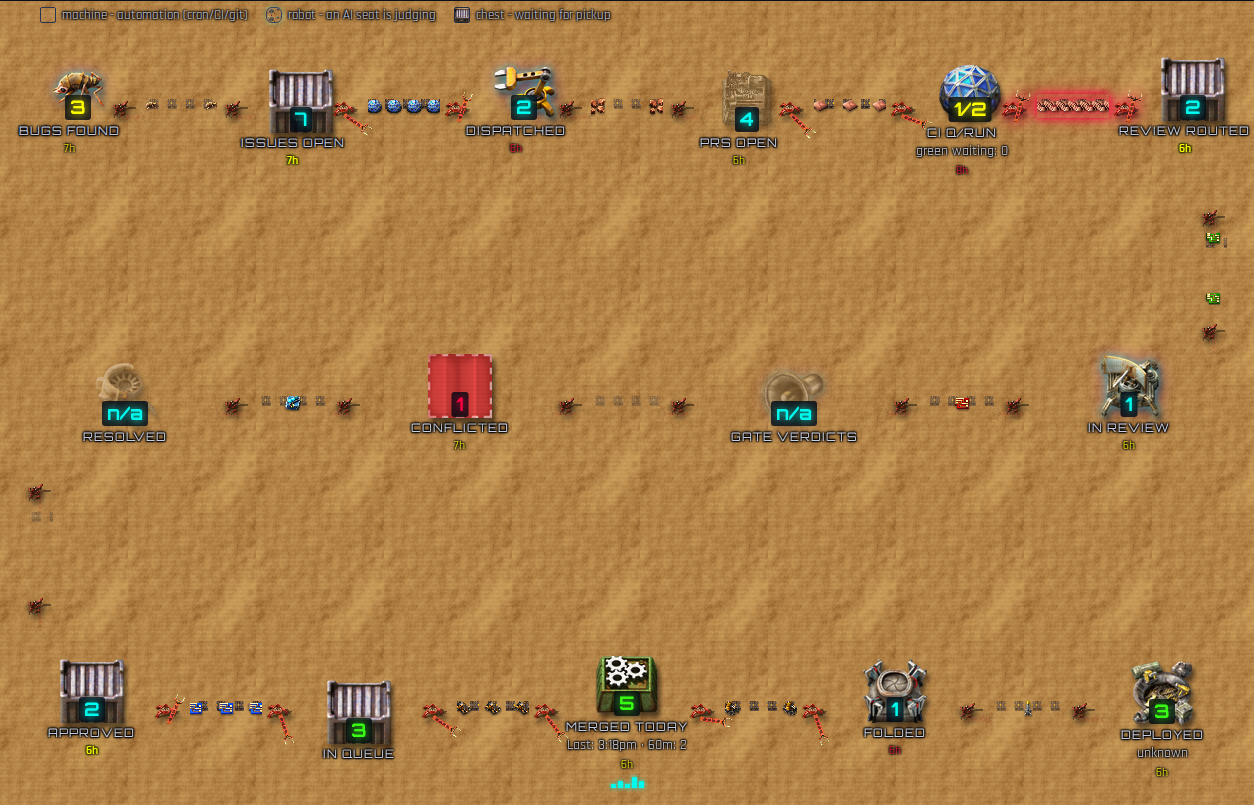
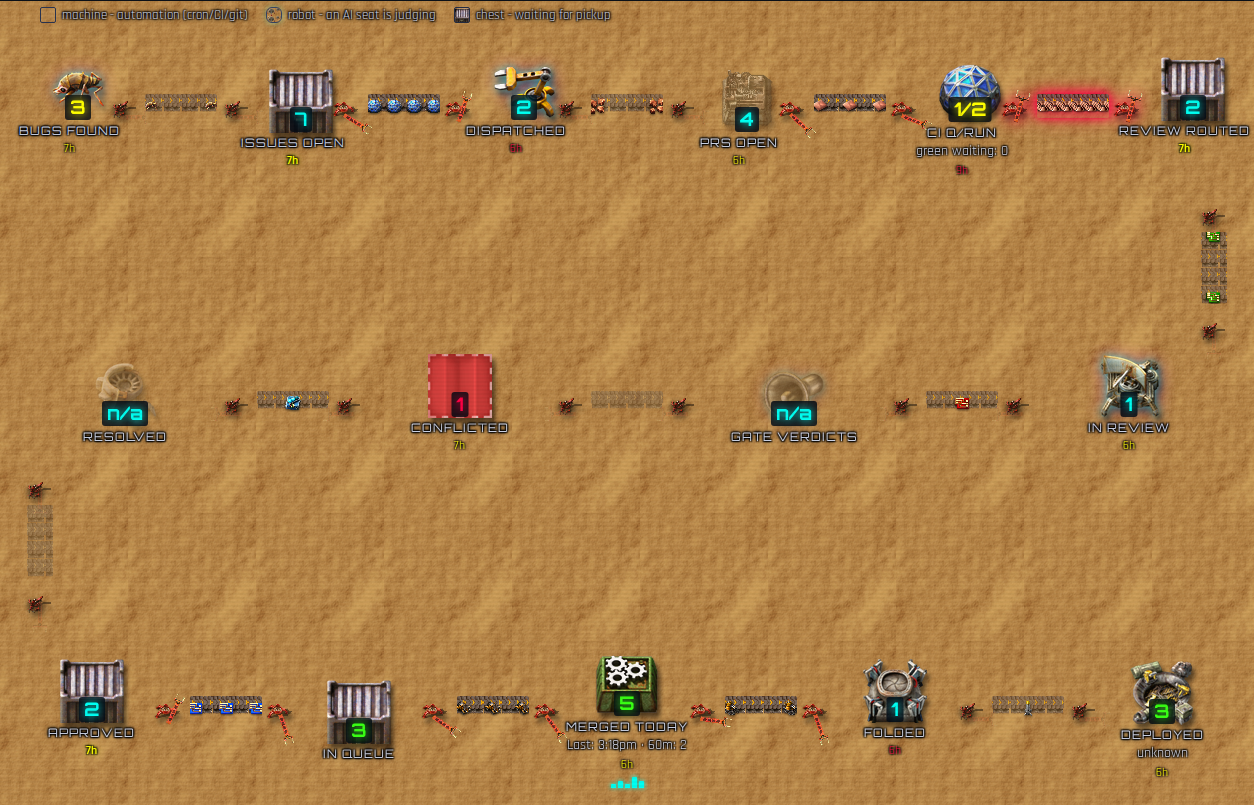
fix(monitor): retile belt texture, fix vertical belt tiling, add real reference comparison
Ben supplied three reference gameplay screenshots (pulled from Bens-Mac.local
over SSH - the local paths he pasted aren't reachable from this worktree's
own box). Comparing against them surfaced a real rendering bug beyond the
prior review's known gaps:

- static/factorio/belt/belt-tile.png was 64x64 with its actual belt-tread
  art confined to a 40x40 box in the middle - tiled at 18px, most of what
  painted was transparent, so items floated on bare sand with only faint
  arrow specks between them instead of a visible moving belt surface.
  Re-cropped from the already-staged raw transport-belt.png sheet to a
  tight 68x68 tile with almost no dead margin.
- .ship-belt-vertical .ship-belt-track inherited background-repeat:repeat-x
  from the base rule, so each vertical belt (72px tall) only ever painted
  ONE 18px band of texture and left the rest as bare sand. Set to `repeat`
  so the tread fills the full vertical run.

evidence/factorio-belts/reference-comparison.png stacks one of Ben's real
frames over the rebuilt strip; evidence/factorio-belts/README.md documents
the full comparison (belt fix, ground tone, inserter tier, density,
still-deferred items) instead of the earlier "no reference frames available"
caveat, which no longer applies.

Full test suite re-verified green after the belt-tile change.

Claude-Session: https://claude.ai/code/session_015a21LH9eqkn4oZydkWAQ3i

diff --git a/queue_router.py b/queue_router.py
@@ -7614,7 +7614,7 @@ animation:ship-belt-flow linear infinite;animation-duration:var(--belt-duration,
    belt is always downstream-is-down here, so there is no "vertical-left"
    mirror to carry). */
 .ship-belt-vertical{width:26px;height:72px;flex:0 0 72px}
-.ship-belt-vertical .ship-belt-track{background-size:18px 18px;animation-name:ship-belt-flow-vertical}
+.ship-belt-vertical .ship-belt-track{background-size:18px 18px;background-repeat:repeat;animation-name:ship-belt-flow-vertical}
 @keyframes ship-belt-flow-vertical{to{background-position-y:18px}}
 .ship-belt-items{position:absolute;inset:0}
 .ship-belt-item{position:absolute;top:50%;left:50%;width:16px;height:16px;transform:translate(-50%,-50%);

diff --git a/evidence/factorio-belts/README.md b/evidence/factorio-belts/README.md
@@ -316,7 +316,51 @@ delays identical at `-2.471s`).
 continuous vertical belt spanning all 14 arrows was not attempted beyond the
 two transitions above - it would require restructuring the row layout that
 every prior round explicitly protected, which this order also explicitly
-protects in the same breath it asks for vertical belts. The reference-frame
-side-by-side this order also asks for could not be produced - this session
-has no access to Ben's actual reference frame images, only his written
-description of them (same gap noted in round 2 and order 16's evidence).
+protects in the same breath it asks for vertical belts.
+
+## Reference-frame comparison (Ben supplied three screenshots after this
+## session first shipped, correcting the earlier "no access" note)
+
+`reference-comparison.png` stacks one of Ben's real-gameplay reference frames
+over `strip-1440-item-chain.png`. Pulled from `Bens-Mac.local` over SSH (the
+paths he pasted are local to his Mac, unreachable from this worktree's own
+box - `rsync`/`scp` both choke on the filename's spaces even quoted, so the
+working path was `ssh ... 'for f in *pattern*; do base64 -i "$f"; done'` on
+the remote side, piped back and decoded locally).
+
+What the comparison actually found, most significant first:
+
+1. **Belts weren't reading as belts at all - fixed.** `static/factorio/belt/
+   belt-tile.png` was a 64x64 tile whose real belt-tread art only filled a
+   40x40 box in the middle (`Image.getbbox()` confirmed the transparent
+   margin) - tiled at 18px, most of what rendered was transparent, so items
+   floated on bare sand between faint arrow specks instead of a visible
+   moving surface. Re-cropped from the raw `transport-belt.png` sheet
+   (already staged, never referenced by the previous crop) to a tight 68x68
+   tile with almost no dead margin. Same fix also exposed and corrected a
+   real bug on the two vertical belts: `.ship-belt-vertical .ship-belt-track`
+   inherited `background-repeat:repeat-x` from the base rule, so a vertical
+   belt only ever painted ONE 18px band of texture and left the rest of its
+   72px height as bare sand - added `background-repeat:repeat` so the tread
+   now fills the whole vertical run.
+2. **Ground tone** - close now (both a warm light tan), though the reference
+   is slightly more desaturated/grey with visible tire-track wear; not
+   changed further, since chasing an exact match risks re-fighting the
+   legibility problem round 2 already solved at the text.
+3. **Inserter color** - the reference's basic inserters are yellow; this
+   dashboard uses the long-handed-inserter sprite (authentically
+   orange/copper in Factorio, just a different tier), established in order
+   14 and left as-is since neither order asked for a tier change.
+4. **Density/scale** - the reference is one tightly-packed factory block; this
+   strip is 15 discrete, widely-spaced stages by design (order 16 already
+   disagreed with "edge to edge" density for the same structural reason as
+   the vertical-belt compromise above).
+5. **Not shipped, unchanged from order 16's deferred list**: power poles and
+   wire, foundation pads, ground clutter (grass tufts, loose rock) - the
+   reference frames confirm all three are visible in real play and still
+   absent here.
+
+Chevron direction is one known remaining nit from the belt-tile fix: the
+tile's arrows point sideways (rightward) even on the two vertical belts,
+since rotating just the background pattern (not the whole element) isn't a
+plain CSS operation - flagged rather than left silent, not blocking.
